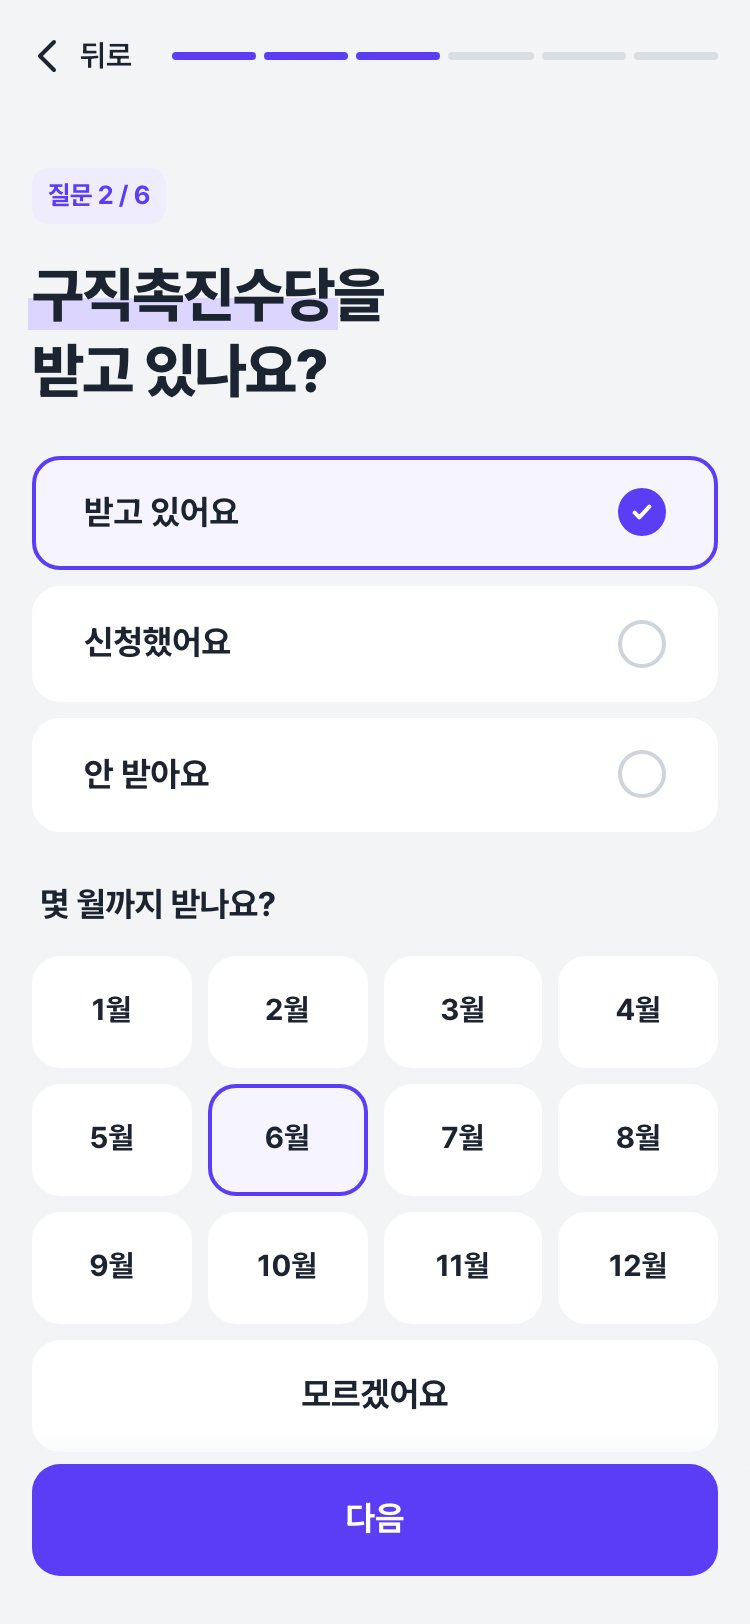
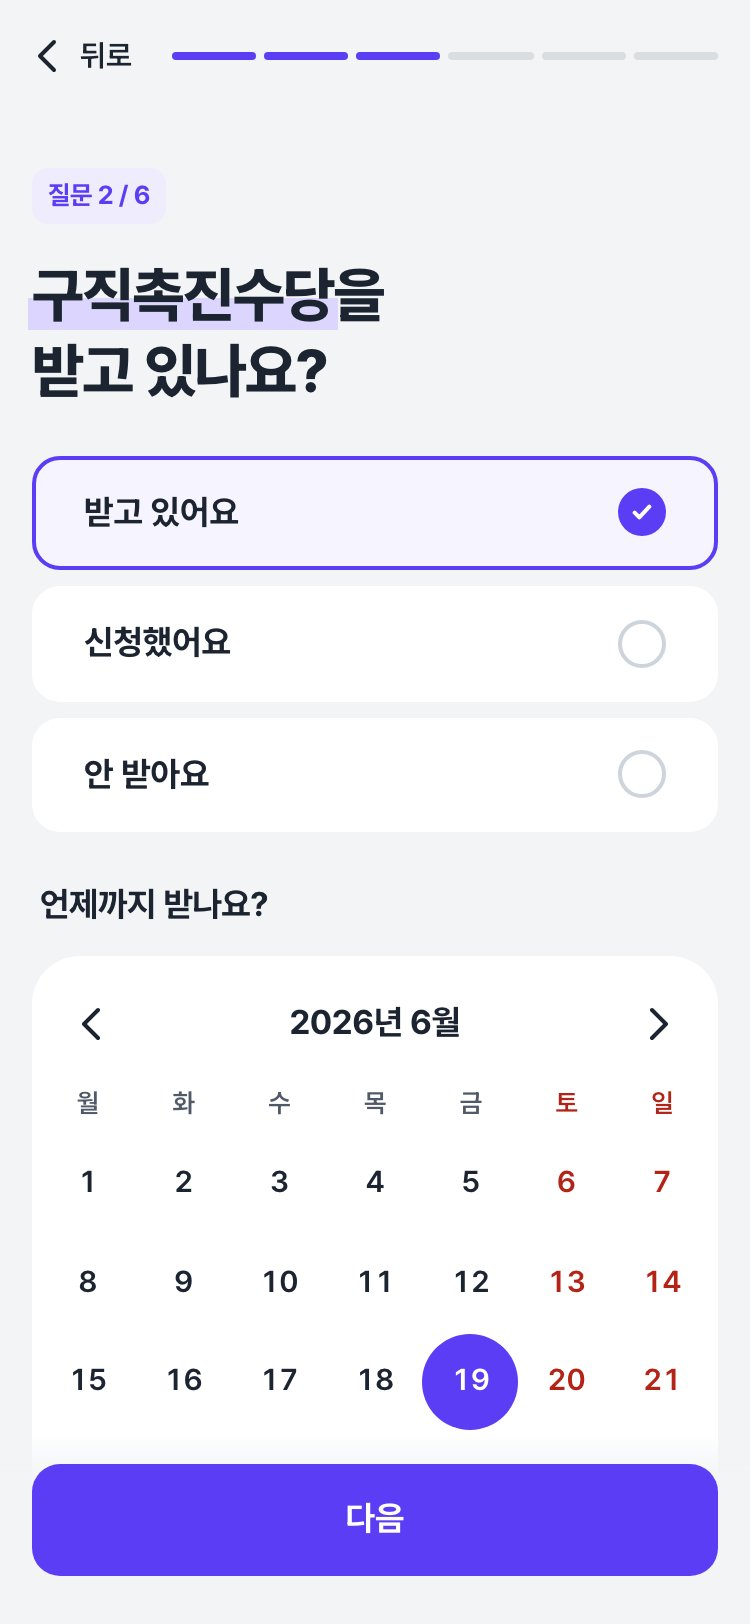
질문 2·6의 끝나는 달 버튼(1~12월)을 끝나는 날을 고르는 달력으로 바꿈, 계산은 지금처럼 달 기준
- 구직촉진수당·실업급여를 받는 사람은 끝나는 때를 'O월 O일'로 알아서, 직접 입력에 있던 달력과
  같은 모양으로 하루를 고르게 함. 올해 1~12월만, '모르겠어요'는 그대로
- 고른 날의 달은 ...EndMonth(계산용), 날짜는 ...EndDate(화면용)에 함께 둠. 엔진은 안 바꿈:
  법 제20조④(지급주기 1개월, 인정 통지일부터)·제21조④·시행령 제9조의2(그 주기 소득을 합쳐 감액)에
  날수로 나누는 규정이 없어 마지막 달을 날짜로 나누지 않음
- 예전에 달만 저장한 값은 그 달을 펼치고 같은 결과로 계산함
- 고른 뒤 초점을 누른 날짜에 둬서 키보드로 이어서 고를 수 있음
- 카페 예시에 끝나는 날 6월 19일을 넣음(끝나는 달 6월 그대로)
- 캡처 16_질문_2(375·1440)와 전체 그림 다시 찍음

확인: npm test 168/168, 80장 가로 넘침 0·콘솔 오류 0·대비 최소 5.28,
PC 1366×650·1440×790에서 누른 버튼 안 움직임·'다음' 첫 화면 안

diff --git a/munteok/js/app.js b/munteok/js/app.js
@@ -808,9 +808,60 @@ function segBtn(name, value, label, current) {
   return `<button type="button" class="seg-b ${on ? 'on' : ''}" data-action="choose" data-name="${name}" data-value="${value}" aria-pressed="${on}">${esc(label)}</button>`;
 }
 
-function monthGrid(name, current) {
-  const cell = (v, label) => { const on = String(current) === String(v); return `<button type="button" class="opt c ${on ? 'on' : ''}" data-action="choose" data-name="${name}" data-value="${v}" aria-pressed="${on}">${label}</button>`; };
-  return `<div class="grid4">${Array.from({ length: 12 }, (_, i) => cell(i + 1, `${i + 1}월`)).join('')}</div><div class="grid1">${cell('unknown', '모르겠어요')}</div>`;
+// 수당이 끝나는 날을 하루 고르는 달력. 직접 입력의 달력(calendarHtml)과 같은 모양이고, 올해(appliesToYear) 1~12월만 둔다.
+// 계산은 지금처럼 달 기준이다(구직촉진수당은 날수로 나누는 규정이 없다). 그래서 고른 날의 달을 ...EndMonth에 넣고,
+// 고른 날짜는 화면에 다시 보여 주려고 ...EndDate에 따로 둔다. 예전에 달만 저장한 값은 그 달을 펼쳐 두고 같은 결과로 계산한다.
+const END_DATE = { allowanceEndMonth: 'allowanceEndDate', unemploymentEndMonth: 'unemploymentEndDate' };
+function endDateOf(name) {
+  const d = state.profile[END_DATE[name]];
+  const m = state.profile[name];
+  return typeof d === 'string' && typeof m === 'number' && Number(d.slice(5, 7)) === m ? d : null;
+}
+// 달력에 펼칠 달: 넘겨 본 달 → 고른 날의 달 → 저장된 달 → 이번 달(올해가 아니면 1월)
+function endCalMonth(name) {
+  const p = state.profile;
+  const basis = `${p[name]}|${endDateOf(name) || ''}`;
+  const seen = state.endCal && state.endCal[name];
+  if (seen && seen.basis === basis) return seen.mo;
+  const d = endDateOf(name);
+  if (d) return Number(d.slice(5, 7));
+  if (typeof p[name] === 'number') return p[name];
+  const year = state.rules.appliesToYear;
+  const now = new Date();
+  return now.getFullYear() === year ? now.getMonth() + 1 : 1;
+}
+function endDateCal(name, labelId) {
+  const year = state.rules.appliesToYear;
+  const mo = endCalMonth(name);
+  const picked = endDateOf(name);
+  const month = state.profile[name];
+  const lead = (new Date(Date.UTC(year, mo - 1, 1)).getUTCDay() + 6) % 7;
+  const daysIn = new Date(Date.UTC(year, mo, 0)).getUTCDate();
+  const cells = Array.from({ length: lead }, () => '<span class="cal-e" aria-hidden="true"></span>');
+  for (let d = 1; d <= daysIn; d++) {
+    const v = isoDate(year, mo, d);
+    const on = picked === v;
+    const wd = new Date(Date.UTC(year, mo - 1, d)).getUTCDay();
+    cells.push(`<button type="button" class="cal-d ${on ? 'on' : ''} ${wd === 0 || wd === 6 ? 'we' : ''}" data-action="endDay" data-name="${name}" data-value="${v}" aria-pressed="${on}" aria-label="${mo}월 ${d}일 ${WEEKDAY[wd]}요일">${d}</button>`);
+  }
+  // 구직촉진수당은 계산에, 실업급여는 안내에만 쓴다(실업급여 금액은 계산하지 않는다).
+  const use = (m) => (name === 'allowanceEndMonth' ? `${m}월까지 받는 것으로 계산해요` : `${m}월에 끝나는 것으로 알려 드려요`);
+  let note = '끝나는 날을 눌러 고르세요';
+  if (picked) {
+    const pm = Number(picked.slice(5, 7));
+    const pd = Number(picked.slice(8, 10));
+    note = `${pm}월 ${pd}일 ${WEEKDAY[new Date(Date.UTC(year, pm - 1, pd)).getUTCDay()]}요일까지 받아요. ${use(pm)}`;
+  } else if (typeof month === 'number') note = `지금은 ${use(month)}. 끝나는 날을 누르면 그날로 바뀌어요`;
+  const unknown = !picked && typeof month !== 'number';
+  return `<div class="cal one" role="group" aria-labelledby="${labelId}">
+    <div class="cal-h">
+      <button type="button" class="cal-nav" data-action="endMove" data-name="${name}" data-value="-1" aria-label="이전 달" ${mo <= 1 ? 'disabled' : ''}>${icon('back')}</button>
+      <b aria-live="polite">${year}년 ${mo}월</b>
+      <button type="button" class="cal-nav" data-action="endMove" data-name="${name}" data-value="1" aria-label="다음 달" ${mo >= 12 ? 'disabled' : ''}>${icon('ch')}</button>
+    </div>
+    <div class="cal-g" role="group" aria-label="${mo}월 날짜">${WEEK_ORDER.map((d) => `<span class="dow ${d === 0 || d === 6 ? 'we' : ''}" aria-hidden="true">${WEEKDAY[d]}</span>`).join('')}${cells.join('')}</div>
+    <p class="gline">${note}</p>
+  </div><div class="grid1"><button type="button" class="opt c ${unknown ? 'on' : ''}" data-action="choose" data-name="${name}" data-value="unknown" aria-pressed="${unknown}">모르겠어요</button></div>`;
 }
 
 function viewProfile() {
@@ -845,10 +896,10 @@ function viewProfile() {
       html: `${head}<h1 class="t2"><mark>구직촉진수당</mark>을<br>받고 있나요?</h1>
         <div class="cb">
         <div class="opts">${optBtn('allowance', 'yes', '받고 있어요', p.allowance)}${optBtn('allowance', 'applying', '신청했어요', p.allowance)}${optBtn('allowance', 'no', '안 받아요', p.allowance)}</div>
-        ${p.allowance !== 'no' ? `<p class="lbl">몇 월까지 받나요?</p>${monthGrid('allowanceEndMonth', p.allowanceEndMonth)}
-          <p class="gline">구직촉진수당은 최대 6개월 받아요. 끝나는 달은 고용24나 고용센터(1350)에서 확인할 수 있어요</p>` : ''}
+        ${p.allowance !== 'no' ? `<p class="lbl" id="lbl-allowance-end">언제까지 받나요?</p>${endDateCal('allowanceEndMonth', 'lbl-allowance-end')}
+          <p class="gline">구직촉진수당은 최대 6개월 받아요. 끝나는 날은 고용24나 고용센터(1350)에서 확인할 수 있어요</p>` : ''}
         </div>
-        ${why('수당을 받는 동안 돈을 벌면 수당이 줄 수 있어요. 끝나는 달을 알면 그 뒤로는 줄어드는 돈 없이 계산해요.')}
+        ${why('수당을 받는 동안 돈을 벌면 수당이 줄 수 있어요. 끝나는 날을 알면 그다음 달부터는 줄어드는 돈 없이 계산해요.')}
         ${card}`,
       bottom: next,
     };
@@ -917,8 +968,8 @@ function viewProfile() {
       <div class="cb">
       <div class="grid2">${others.map(([k, v]) => { const on = (p.otherSupports || []).includes(k); return `<button type="button" class="opt c ${on ? 'on' : ''}" data-action="choose" data-name="otherSupports" data-multi="1" data-value="${k}" aria-pressed="${on}">${esc(v.title)}</button>`; }).join('')}
         <button type="button" class="opt c ${none ? 'on' : ''}" data-action="noSupports" aria-pressed="${none}">없어요</button></div>
-      ${(p.otherSupports || []).includes('unemploymentBenefit') ? `<p class="lbl">실업급여는 몇 월까지 받나요?</p>${monthGrid('unemploymentEndMonth', p.unemploymentEndMonth ?? 'unknown')}
-        <p class="gline">끝나는 달을 알면, 그 뒤로는 줄어들 실업급여가 없다는 것까지 알려 드려요</p>` : ''}
+      ${(p.otherSupports || []).includes('unemploymentBenefit') ? `<p class="lbl" id="lbl-unemployment-end">실업급여는 언제까지 받나요?</p>${endDateCal('unemploymentEndMonth', 'lbl-unemployment-end')}
+        <p class="gline">끝나는 날을 알면, 그다음 달부터는 줄어들 실업급여가 없다는 것까지 알려 드려요</p>` : ''}
       </div>
       <p class="gline">여러 개 고를 수 있어요. 이 지원들은 계산하지 않고 물어볼 곳만 알려 드려요</p>
       ${card}`,
@@ -2263,7 +2314,26 @@ document.addEventListener('click', (e) => {
         list.has(value) ? list.delete(value) : list.add(value);
         state.profile[name] = [...list];
       } else state.profile[name] = /EndMonth$/.test(name) && value !== 'unknown' ? Number(value) : value;
+      if (END_DATE[name]) state.profile[END_DATE[name]] = null;
       keep();
+      return;
+    }
+    // 끝나는 날 달력: 고른 날짜와 그 달(계산에 쓰는 값)을 함께 넣는다. 다시 그린 뒤에도 누른 버튼에 초점을 둔다.
+    case 'endDay': {
+      const name = el.dataset.name; const v = el.dataset.value;
+      state.profile[name] = Number(v.slice(5, 7));
+      state.profile[END_DATE[name]] = v;
+      keep();
+      app.querySelector(`[data-action=endDay][data-name=${name}][data-value="${v}"]`)?.focus({ preventScroll: true });
+      return;
+    }
+    case 'endMove': {
+      const name = el.dataset.name; const dir = Number(el.dataset.value);
+      const basis = `${state.profile[name]}|${endDateOf(name) || ''}`;
+      state.endCal = { ...(state.endCal || {}), [name]: { mo: Math.min(12, Math.max(1, endCalMonth(name) + dir)), basis } };
+      keep();
+      const navs = [...app.querySelectorAll(`[data-action=endMove][data-name=${name}]`)];
+      (navs.find((b) => b.dataset.value === String(dir) && !b.disabled) || navs.find((b) => !b.disabled))?.focus({ preventScroll: true });
       return;
     }
     case 'noSupports': state.profile.otherSupports = []; keep(); return;

diff --git a/munteok/js/samples.js b/munteok/js/samples.js
@@ -15,7 +15,7 @@ export const SAMPLES = [
       incomeType: { value: 'wage', status: '확정', evidence: '4대보험 가입, 주휴수당 별도 지급' },
       holidayIncluded: { value: false, status: '확정', evidence: '주휴수당 별도 지급' },
     },
-    profile: { age: 27, maxHours: 30, allowance: 'yes', allowanceEndMonth: 6, healthDependent: 'no', taxDependent: 'no', ytdIncome: { wage: 0, daily: 0, business: 0 }, otherSupports: [] },
+    profile: { age: 27, maxHours: 30, allowance: 'yes', allowanceEndMonth: 6, allowanceEndDate: '2026-06-19', healthDependent: 'no', taxDependent: 'no', ytdIncome: { wage: 0, daily: 0, business: 0 }, otherSupports: [] },
   },
   {
     id: 'tutor',

diff --git a/docs/intent/hankkeut-end-date-calendar.md b/docs/intent/hankkeut-end-date-calendar.md
@@ -1,0 +1,52 @@
+# 수당이 끝나는 날을 달력으로 고르기 (질문 2 구직촉진수당, 질문 6 실업급여)
+
+2026-11-23 11시쯤 사용자와 정함. 정할 때의 HEAD는 472becb(design/hankkeut).
+
+## 목표 (Why)
+- 구직촉진수당이나 실업급여를 받는 사람은 끝나는 때를 고용24나 수급자격 통지에서 'O월 O일'로 본다. 지금 화면은 그걸 '몇 월'로 바꿔 생각해서 1~12월 버튼을 누르게 한다. 끝나는 날을 달력에서 바로 고르게 한다.
+- 두 질문 모양을 같게 둔다. 둘 다 같은 버튼 묶음(monthGrid)을 쓰고 있어서, 하나만 바꾸면 모양이 어긋난다.
+
+## 무엇을 바꾸나
+- 질문 2 '구직촉진수당을 받고 있나요?' 아래 '몇 월까지 받나요?'와 질문 6 '다른 지원' 아래 '실업급여는 몇 월까지 받나요?'의 1~12월 버튼을 하루를 고르는 달력으로 바꾼다. '모르겠어요'는 그대로 둔다.
+- 달력은 새로 디자인하지 않는다. 직접 입력 '날짜를 골라서'에 이미 있는 달력(app.js `calendarHtml`, 여러 날 고르기, 올해 1~12월)의 모양을 다시 쓰고, 하루만 고르게 한다.
+- 질문 문구도 날짜에 맞게 바꾼다(예: '언제까지 받나요?'). 정확한 문구는 구현 세션이 정한다.
+
+## 계산: 1안을 해 보고, 안 되면 2안
+- **1안(날짜까지 따지기):** 고른 날짜까지 계산한다.
+  - 구직촉진수당: 마지막 달은 고른 날짜까지만 줄어드는 금액으로 계산한다.
+  - 실업급여: 금액은 계산하지 않고 지금처럼 안내만 하되, 문구를 날짜로 한다('O월 O일 뒤로는 줄어들 실업급여가 없어요' 같은 식).
+  - **먼저 할 일:** 구직촉진수당이 달 중간에 끝날 때 그 달을 날수로 나눠 주는지(그리고 번 돈 때문에 줄어드는 금액도 날수로 나누는지) 공식 근거(고용노동부·국민취업지원제도 안내, rules.json의 allowance_* 출처)를 확인한다. **근거가 없으면 1안을 하지 않는다.** 짐작으로 나누면 오히려 틀린 계산이 된다.
+- **2안(달력만, 계산은 달 기준):** 14:00까지 1안이 근거 확인과 시험 통과까지 못 가면, 달력 입력만 넣고 계산과 결과 문구는 지금처럼 달 기준으로 마무리한다. 3월 15일을 고르면 지금 '3월'을 누른 것과 똑같이 계산하고, 결과에는 '3월까지'라고 나온다. 엔진은 건드리지 않는다.
+
+## 완료 기준 (Success)
+- npm test 모두 통과(지금 168건). 1안이면 날짜 계산 시험을 새로 넣는다(달 중간에 끝남, 일 시작 전에 끝남, 달 첫날·마지막 날, 모르겠어요).
+- 휴대폰 375·PC 1440 캡처 80장에서 가로 넘침 0, 콘솔 오류 0, 글자 대비 4.5:1 이상.
+- 달력을 키보드만으로 고를 수 있고, 화면 읽기가 'O월 O일 O요일'과 고른 상태를 읽는다. 누르는 곳 44px 이상.
+- PC 1366×650·1440×790에서 달력이 펼쳐진 뒤에도 아래 '다음' 버튼이 첫 화면 안에 있다. 질문 화면 오른쪽 칸 세로 가운데 맞춤(app.js `centerAnswer`)은 같은 화면에서 칸이 늘어도 누른 버튼을 움직이지 않는다 — 달력이 커서 칸이 많이 늘어나므로 꼭 다시 본다.
+- 예전에 저장한 '몇 월' 값(저장한 제안, 새로고침 뒤 복원)도 그대로 열리고 같은 결과가 나온다.
+- 바뀐 화면의 캡처(375·1440)와 전체 그림을 다시 찍는다.
+
+## 제약 (Constraint)
+- 15:00 이후에는 코드를 고치지 않는다. 1안/2안 결정은 14:00.
+- 커밋·push·배포는 매번 사용자에게 묻는다. 커밋에는 자기 변경만 넣는다(같은 폴더를 다른 세션도 고친다: HEAD 파일에 자기 수정만 다시 넣어 hash-object + update-index로 넣는 방식).
+- 같은 폴더(worktree design-hankkeut)에서 다른 세션이 app.js·style.css를 고칠 수 있다. 고치기 전에 이어진 세션들에 고칠 곳을 알린다.
+
+## 하지 않을 것 (Out of scope)
+- 다음 해로 넘어가는 날짜. 지금 버튼처럼 올해(rules의 appliesToYear) 1~12월만 둔다.
+- 실업급여 금액 계산. 지금처럼 안내만 한다.
+- 다른 질문의 입력 방식, 첫 화면, 결과 화면 배치 바꾸기.
+- 달력 디자인 새로 하기. 있는 달력 모양을 다시 쓴다.
+
+## 코드에서 확인한 것 (472becb 기준)
+- `munteok/js/app.js`
+  - `monthGrid(name, current)`(811줄쯤): 1~12월 버튼 + '모르겠어요'. 질문 2(`allowanceEndMonth`, 848줄쯤)와 질문 6(`unemploymentEndMonth`, 920줄쯤)이 같이 쓴다.
+  - `calendarHtml(m)`(390줄쯤): 직접 입력의 여러 날 달력. `calDay`·`calMove`·`calQuick` 동작, 월요일부터, 올해만, 주말 표시, 날마다 aria-label.
+  - 결과 카드 문구가 `c.endMonth`로 'N월까지'를 만든다(951·956·960·988줄쯤).
+- `munteok/js/engine.js`
+  - `profile.allowanceEndMonth` → `allowanceEnd(profile)`(384줄쯤) → 달마다 줄어드는 금액을 구할 때 `Number(key) > endMonth`인 달을 건너뛴다(413줄쯤). 일 시작 전에 끝나면 줄어드는 수당 없음(394줄쯤). 'unknown'이면 계속 받는다고 보고 안내(444줄쯤).
+  - 실업급여는 `unemploymentEndMonth`를 안내에만 쓴다(555줄쯤).
+- `munteok/data/rules.json`: allowance_amount·allowance_formula·allowance_law·allowance_employment(구직촉진수당 근거와 출처).
+- `munteok/tests/run.mjs`: 168건.
+
+## 새 세션에 넘길 프롬프트
+frontend-design 스킬로 작업해 줘. 먼저 `docs/intent/hankkeut-end-date-calendar.md`를 끝까지 읽고 목표와 하지 않을 것을 지켜 줘. 작업 폴더는 `/Users/ansangwoo/Desktop/해커톤/.claude/worktrees/design-hankkeut`(브랜치 design/hankkeut)이고 원래 폴더의 브랜치는 바꾸지 마. 순서: 1) 구직촉진수당이 달 중간에 끝날 때 날수로 나누는 공식 근거부터 확인해서 사용자에게 알려 줘(근거가 없으면 2안). 2) 질문 2·6의 1~12월 버튼을 있는 달력 모양을 다시 쓴 하루 고르기 달력으로 바꿔('모르겠어요'는 그대로). 3) 1안이면 엔진에 날짜 계산과 시험을 넣고, 14:00까지 안 되면 2안(계산은 달 기준)으로 마무리해. 4) 문서의 완료 기준대로 확인하고 캡처를 다시 찍어. 고치기 전에 같은 폴더를 쓰는 다른 세션에 고칠 곳을 알리고, 커밋·push·배포는 매번 사용자에게 물어봐. 15:00 이후에는 코드를 고치지 마.
